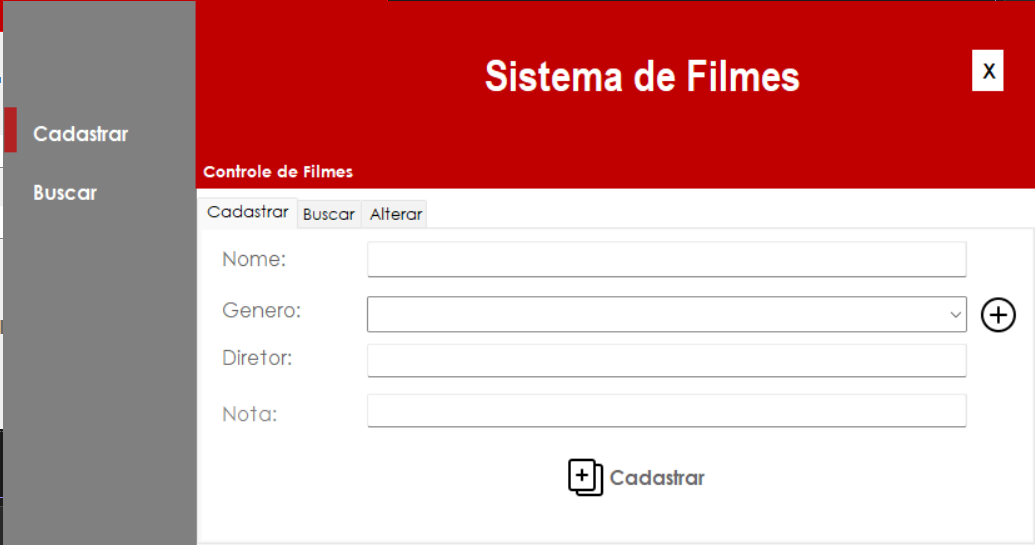
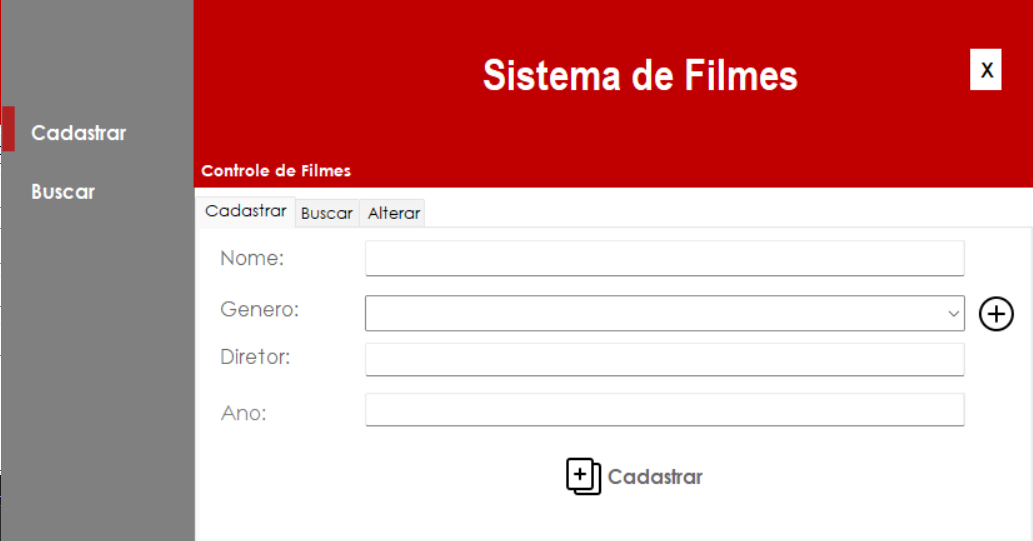
Novo

diff --git a/SistemaCadastro/Sistema.Designer.cs b/SistemaCadastro/Sistema.Designer.cs
@@ -36,6 +36,7 @@
             this.panel4 = new System.Windows.Forms.Panel();
             this.label12 = new System.Windows.Forms.Label();
             this.label1 = new System.Windows.Forms.Label();
+            this.button2 = new System.Windows.Forms.Button();
             this.tabControl1 = new System.Windows.Forms.TabControl();
             this.tabCadastrar = new System.Windows.Forms.TabPage();
             this.bntAddGenero = new System.Windows.Forms.Button();
@@ -65,7 +66,6 @@
             this.label10 = new System.Windows.Forms.Label();
             this.btnConfirmaAlteracao = new System.Windows.Forms.Button();
             this.lblMensagem = new System.Windows.Forms.Label();
-            this.button2 = new System.Windows.Forms.Button();
             this.panel1.SuspendLayout();
             this.panel4.SuspendLayout();
             this.tabControl1.SuspendLayout();
@@ -170,6 +170,25 @@
             this.label1.TabIndex = 3;
             this.label1.Text = "Controle de Filmes";
             // 
+            // button2
+            // 
+            this.button2.BackColor = System.Drawing.Color.White;
+            this.button2.FlatAppearance.BorderSize = 0;
+            this.button2.FlatStyle = System.Windows.Forms.FlatStyle.Flat;
+            this.button2.Font = new System.Drawing.Font("Century Gothic", 12F, System.Drawing.FontStyle.Bold);
+            this.button2.ForeColor = System.Drawing.Color.Black;
+            this.button2.ImageAlign = System.Drawing.ContentAlignment.MiddleLeft;
+            this.button2.Location = new System.Drawing.Point(828, 48);
+            this.button2.Margin = new System.Windows.Forms.Padding(4);
+            this.button2.Name = "button2";
+            this.button2.Size = new System.Drawing.Size(33, 41);
+            this.button2.TabIndex = 8;
+            this.button2.Text = "X";
+            this.button2.TextAlign = System.Drawing.ContentAlignment.MiddleLeft;
+            this.button2.TextImageRelation = System.Windows.Forms.TextImageRelation.TextBeforeImage;
+            this.button2.UseVisualStyleBackColor = false;
+            this.button2.Click += new System.EventHandler(this.button2_Click);
+            // 
             // tabControl1
             // 
             this.tabControl1.Controls.Add(this.tabCadastrar);
@@ -248,9 +267,9 @@
             this.label6.ForeColor = System.Drawing.Color.Gray;
             this.label6.Location = new System.Drawing.Point(16, 167);
             this.label6.Name = "label6";
-            this.label6.Size = new System.Drawing.Size(64, 23);
+            this.label6.Size = new System.Drawing.Size(55, 23);
             this.label6.TabIndex = 13;
-            this.label6.Text = "Nota:";
+            this.label6.Text = "Ano:";
             this.label6.Click += new System.EventHandler(this.label6_Click);
             // 
             // BtnConfirmaCadastro
@@ -464,6 +483,7 @@
             this.label7.Size = new System.Drawing.Size(55, 23);
             this.label7.TabIndex = 21;
             this.label7.Text = "Ano:";
+            this.label7.Click += new System.EventHandler(this.label7_Click);
             // 
             // txtAlteraIntegrantes
             // 
@@ -550,25 +570,6 @@
             this.lblMensagem.Name = "lblMensagem";
             this.lblMensagem.Size = new System.Drawing.Size(0, 16);
             this.lblMensagem.TabIndex = 1;
-            // 
-            // button2
-            // 
-            this.button2.BackColor = System.Drawing.Color.White;
-            this.button2.FlatAppearance.BorderSize = 0;
-            this.button2.FlatStyle = System.Windows.Forms.FlatStyle.Flat;
-            this.button2.Font = new System.Drawing.Font("Century Gothic", 12F, System.Drawing.FontStyle.Bold);
-            this.button2.ForeColor = System.Drawing.Color.Black;
-            this.button2.ImageAlign = System.Drawing.ContentAlignment.MiddleLeft;
-            this.button2.Location = new System.Drawing.Point(828, 48);
-            this.button2.Margin = new System.Windows.Forms.Padding(4);
-            this.button2.Name = "button2";
-            this.button2.Size = new System.Drawing.Size(33, 41);
-            this.button2.TabIndex = 8;
-            this.button2.Text = "X";
-            this.button2.TextAlign = System.Drawing.ContentAlignment.MiddleLeft;
-            this.button2.TextImageRelation = System.Windows.Forms.TextImageRelation.TextBeforeImage;
-            this.button2.UseVisualStyleBackColor = false;
-            this.button2.Click += new System.EventHandler(this.button2_Click);
             // 
             // Sistema
             // 

diff --git a/SistemaCadastro/Sistema.cs b/SistemaCadastro/Sistema.cs
@@ -425,5 +425,10 @@ namespace SistemaCadastro
         {
 
         }
+
+        private void label7_Click(object sender, EventArgs e)
+        {
+
+        }
     }
 }
